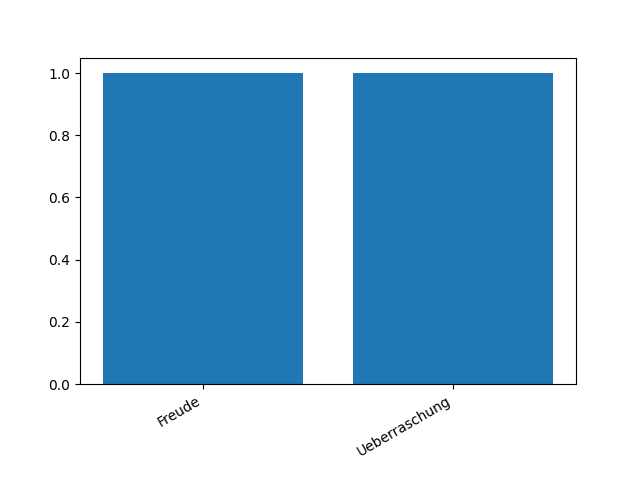
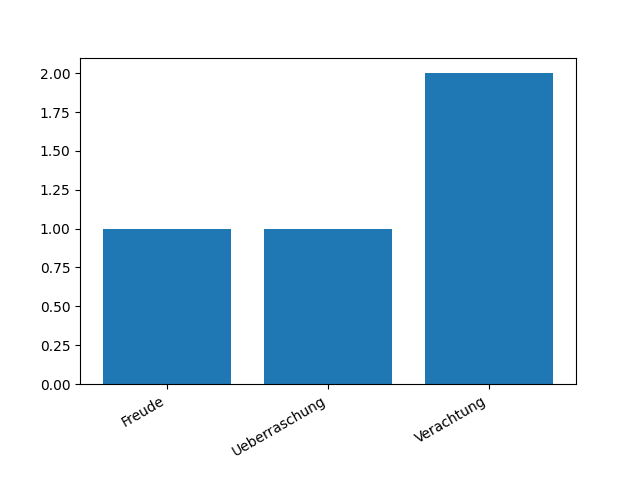
first commit

diff --git a/main.py b/main.py
@@ -3,6 +3,11 @@ from collections import Counter
 import os
 import matplotlib.pyplot as plt
 import sys
+from nltk.corpus import stopwords
+from nltk.tokenize import word_tokenize
+import spacy
+
+nlp = spacy.load('de_core_news_md')
 
 sys.stdout = open(sys.stdout.fileno(), mode='w', encoding='utf-8', buffering=1)
 
@@ -14,72 +19,16 @@ def load_emotion_words(emotion_file, encoding='utf-8'):
 def process_text(text_file, encoding='utf-8'):
     with open(text_file, encoding=encoding, errors='replace') as file:
         text = file.read().lower()
+        doc = nlp(text)
+        text = ' '.join([x.lemma_ for x in doc])
 
     cleaned_text = text.translate(str.maketrans('', '', string.punctuation))
-    tokenized_words = cleaned_text.split()
+    tokenized_words = word_tokenize(cleaned_text, "german")
 
-    cleaned_text = text.translate(str.maketrans('', '', string.punctuation))
-    tokenized_words = cleaned_text.split()
-
-    stop_words = ["a", "ab", "aber", "ach", "acht", "achte", "achten", "achter", "achtes", "ag", "alle", "allein", "allem",
-            "allen", "aller", "allerdings", "alles", "allgemeinen", "als", "also", "am", "an", "ander", "andere",
-            "anderem", "anderen", "anderer", "anderes", "anderm", "andern", "anderr", "anders", "au", "auch", "auf",
-            "aus", "ausser", "ausserdem", "außer", "außerdem", "b", "bald", "bei", "beide", "beiden", "beim", "beispiel",
-            "bekannt", "bereits", "besonders", "besser", "besten", "bin", "bis", "bisher", "bist", "c", "d", "d.h",
-            "da", "dabei", "dadurch", "dafür", "dagegen", "daher", "dahin", "dahinter", "damals", "damit", "danach",
-            "daneben", "dank", "dann", "daran", "darauf", "daraus", "darf", "darfst", "darin", "darum", "darunter",
-            "darüber", "das", "dasein", "daselbst", "dass", "dasselbe", "davon", "davor", "dazu", "dazwischen", "daß",
-            "dein", "deine", "deinem", "deinen", "deiner", "deines", "dem", "dementsprechend", "demgegenüber",
-            "demgemäss", "demgemäß", "demselben", "demzufolge", "den", "denen", "denn", "denselben", "der", "deren",
-            "derer", "derjenige", "derjenigen", "dermassen", "dermaßen", "derselbe", "derselben", "des", "deshalb",
-            "desselben", "dessen", "deswegen", "dich", "die", "diejenige", "diejenigen", "dies", "diese", "dieselbe",
-            "dieselben", "diesem", "diesen", "dieser", "dieses", "dir", "doch", "dort", "drei", "drin", "dritte",
-            "dritten", "dritter", "drittes", "du", "durch", "durchaus", "durfte", "durften", "dürfen", "dürft", "e",
-            "eben", "ebenso", "ehrlich", "ei", "ei,", "eigen", "eigene", "eigenen", "eigener", "eigenes", "ein",
-            "einander", "eine", "einem", "einen", "einer", "eines", "einig", "einige", "einigem", "einigen", "einiger",
-            "einiges", "einmal", "eins", "elf", "en", "ende", "endlich", "entweder", "er", "ernst", "erst", "erste",
-            "ersten", "erster", "erstes", "es", "etwa", "etwas", "euch", "euer", "eure", "eurem", "euren", "eurer",
-            "eures", "f", "folgende", "früher", "fünf", "fünfte", "fünften", "fünfter", "fünftes", "für", "g", "gab",
-            "ganz", "ganze", "ganzen", "ganzer", "ganzes", "gar", "gedurft", "gegen", "gegenüber", "gehabt", "gehen",
-            "geht", "gekannt", "gekonnt", "gemacht", "gemocht", "gemusst", "genug", "gerade", "gern", "gesagt",
-            "geschweige", "gewesen", "gewollt", "geworden", "gibt", "ging", "gleich", "gott", "gross", "grosse",
-            "grossen", "grosser", "grosses", "groß", "große", "großen", "großer", "großes", "gut", "gute", "guter",
-            "gutes", "h", "hab", "habe", "haben", "habt", "hast", "hat", "hatte", "hatten", "hattest", "hattet", "heisst",
-            "her", "heute", "hier", "hin", "hinter", "hoch", "hätte", "hätten", "i", "ich", "ihm", "ihn", "ihnen", "ihr",
-            "ihre", "ihrem", "ihren", "ihrer", "ihres", "im", "immer", "in", "indem", "infolgedessen", "ins", "irgend",
-            "ist", "j", "ja", "jahr", "jahre", "jahren", "je", "jede", "jedem", "jeden", "jeder", "jedermann",
-            "jedermanns", "jedes", "jedoch", "jemand", "jemandem", "jemanden", "jene", "jenem", "jenen", "jener",
-            "jenes", "jetzt", "k", "kam", "kann", "kannst", "kaum", "kein", "keine", "keinem", "keinen", "keiner",
-            "keines", "kleine", "kleinen", "kleiner", "kleines", "kommen", "kommt", "konnte", "konnten", "kurz",
-            "können", "könnt", "könnte", "l", "lang", "lange", "leicht", "leide", "lieber", "los", "m", "machen",
-            "macht", "machte", "mag", "magst", "mahn", "mal", "man", "manche", "manchem", "manchen", "mancher", "manches",
-            "mann", "mehr", "mein", "meine", "meinem", "meinen", "meiner", "meines", "mensch", "menschen", "mich",
-            "mir", "mit", "mittel", "mochte", "mochten", "morgen", "muss", "musst", "musste", "mussten", "muß", "mußt",
-            "möchte", "mögen", "möglich", "mögt", "müssen", "müsst", "müßt", "n", "na", "nach", "nachdem", "nahm",
-            "natürlich", "neben", "nein", "neue", "neuen", "neun", "neunte", "neunten", "neunter", "neuntes", "nicht",
-            "nichts", "nie", "niemand", "niemandem", "niemanden", "noch", "nun", "nur", "o", "ob", "oben", "oder",
-            "offen", "oft", "ohne", "ordnung", "p", "q", "r", "recht", "rechte", "rechten", "rechter", "rechtes",
-            "richtig", "rund", "s", "sa", "sache", "sagt", "sagte", "sah", "satt", "schlecht", "schluss", "schon",
-            "sechs", "sechste", "sechsten", "sechster", "sechstes", "sehr", "sei", "seid", "seien", "sein", "seine",
-            "seinem", "seinen", "seiner", "seines", "seit", "seitdem", "selbst", "sich", "sie", "sieben", "siebente",
-            "siebenten", "siebenter", "siebentes", "sind", "so", "solang", "solche", "solchem", "solchen", "solcher",
-            "solches", "soll", "sollen", "sollst", "sollt", "sollte", "sollten", "sondern", "sonst", "soweit", "sowie",
-            "später", "startseite", "statt", "steht", "suche", "t", "tag", "tage", "tagen", "tat", "teil", "tel",
-            "tritt", "trotzdem", "tun", "u", "uhr", "um", "und", "uns", "unse", "unsem", "unsen", "unser", "unsere",
-            "unserer", "unses", "unter", "v", "vergangenen", "viel", "viele", "vielem", "vielen", "vielleicht", "vier",
-            "vierte", "vierten", "vierter", "viertes", "vom", "von", "vor", "w", "wahr", "wann", "war", "waren",
-            "warst", "wart", "warum", "was", "weg", "wegen", "weil", "weit", "weiter", "weitere", "weiteren",
-            "weiteres", "welche", "welchem", "welchen", "welcher", "welches", "wem", "wen", "wenig", "wenige",
-            "weniger", "weniges", "wenigstens", "wenn", "wer", "werde", "werden", "werdet", "weshalb", "wessen",
-            "wie", "wieder", "wieso", "will", "willst", "wir", "wird", "wirklich", "wirst", "wissen", "wo",
-            "woher", "wohin", "wohl", "wollen", "wollt", "wollte", "wollten", "worden", "wurde", "wurden", "während",
-            "währenddem", "währenddessen", "wäre", "würde", "würden", "x", "y", "z", "z.b", "zehn", "zehnte",
-            "zehnten", "zehnter", "zehntes", "zeit", "zu", "zuerst", "zugleich", "zum", "zunächst", "zur", "zurück",
-            "zusammen", "zwanzig", "zwar", "zwei", "zweite", "zweiten", "zweiter", "zweites", "zwischen", "zwölf",
-            "über", "überhaupt", "übrigens"]
-
-    final_words = [word for word in tokenized_words if word not in stop_words]
-    print(final_words)
+    final_words = []
+    for word in tokenized_words:
+        if word not in stopwords.words('german'):
+            final_words.append(word)
     return final_words
 
 def analyze_emotions(text_file, emotion_files):
@@ -90,7 +39,7 @@ def analyze_emotions(text_file, emotion_files):
         emotions = load_emotion_words(emotion_file)
         for word in final_words:
             if word in emotions:
-                emotion_list.append(os.path.splitext(os.path.basename(emotion_file))[0])  # Extract emotion from filename
+                emotion_list.append(os.path.splitext(os.path.basename(emotion_file))[0])
 
     return emotion_list
 
